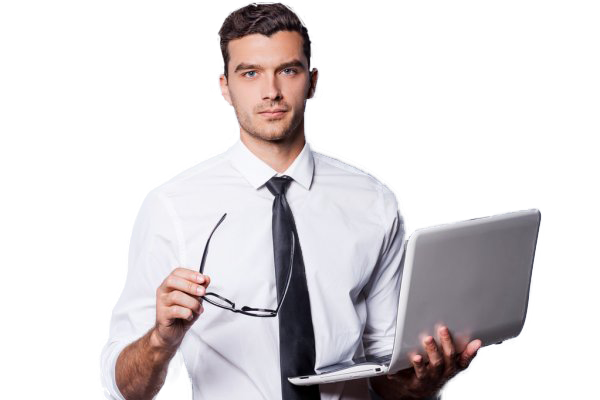
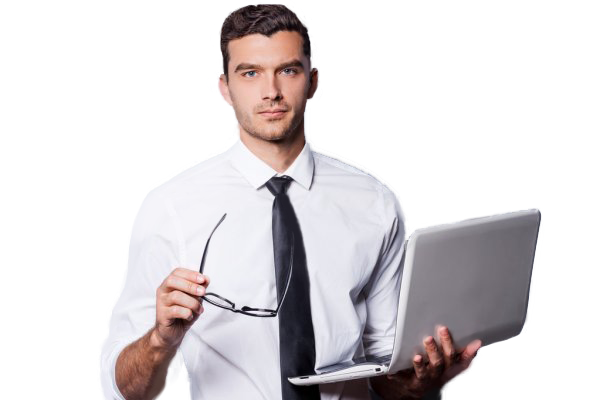
fix some problems (pictures, and some forgots and others details)

diff --git a/css/style.css b/css/style.css
@@ -53,7 +53,7 @@ header section.header .content_section .btn_call_to_action_container button:nth-
 
 header section.header .image_section { grid-column: 3/4; grid-row: 1/6; display: flex; justify-content: center; align-items: flex-end; background-image: url("../Images/header_background.jpg"); background-size: cover; }
 
-header section.header .image_section img { height: 90%; filter: drop-shadow(-2.5px -5px #020a50); }
+header section.header .image_section img { height: 90%; }
 
 section.services { min-height: 50vh; text-align: center; position: relative; padding: 1em 0; background-color: #fef7ff; }
 
@@ -171,7 +171,7 @@ section.pricing div.pricing_cards_container .card_1 { border: 1px solid black; }
 
 section.pricing div.pricing_cards_container .card_1 button { background-color: #5402fa; color: white; }
 
-section.pricing div.pricing_cards_container .card_1 table tr:nth-of-type(3), section.pricing div.pricing_cards_container .card_1 table tr:nth-of-type(4) { opacity: .15 !important; }
+section.pricing div.pricing_cards_container .card_1 table tr:nth-of-type(3), section.pricing div.pricing_cards_container .card_1 table tr:nth-of-type(4) { opacity: .33 !important; }
 
 section.pricing div.pricing_cards_container .card_2 { background-color: #6a1dff; }
 
@@ -183,7 +183,9 @@ section.pricing div.pricing_cards_container .card_2 button { color: #6a1dff; }
 
 section.pricing div.pricing_cards_container .card_2 table tr td { border-bottom: 1px solid white !important; }
 
-section.pricing div.pricing_cards_container .card_2 table tr:nth-of-type(4) { opacity: .15; }
+section.pricing div.pricing_cards_container .card_2 table tr td i { color: white !important; }
+
+section.pricing div.pricing_cards_container .card_2 table tr:nth-of-type(4) { opacity: .33; }
 
 section.pricing div.pricing_cards_container .card_3 { border: 1px solid black; }
 
@@ -205,7 +207,9 @@ section.pricing div.pricing_cards_container .pricing_cards h1 span sup { font-si
 
 section.pricing div.pricing_cards_container .pricing_cards > p { font-weight: 600; text-transform: capitalize; margin: 1em 0; }
 
-section.pricing div.pricing_cards_container .pricing_cards button { width: 100%; border-radius: 50px; border: none; padding: 0.4em; font-size: 1.2em; }
+section.pricing div.pricing_cards_container .pricing_cards button { width: 100%; border-radius: 50px; border: none; padding: 0.4em; font-size: 1.2em; transition: all .25s linear; }
+
+section.pricing div.pricing_cards_container .pricing_cards button:hover { transform: scale(0.95); cursor: pointer; }
 
 section.pricing div.pricing_cards_container .pricing_cards table { width: 85%; }
 

diff --git a/scss/style.scss b/scss/style.scss
@@ -162,7 +162,6 @@ header {
 
             img {
                 height: 90%;
-                filter: drop-shadow(-2.5px -5px rgb(2, 10, 80));
             }
         }
     }
@@ -593,7 +592,7 @@ section.pricing {
 
             table tr:nth-of-type(3),
             table tr:nth-of-type(4) {
-                opacity: .15 !important;
+                opacity: .33 !important;
             }
         }
 
@@ -615,10 +614,15 @@ section.pricing {
 
             table tr td {
                 border-bottom: 1px solid white !important;
+
+                i{
+                    // to make check icons visible because originally it herits from general styles of cards (that is purple)
+                    color: white !important;
+                }
             }
 
             table tr:nth-of-type(4) {
-                opacity: .15;
+                opacity: .33;
             }
 
         }
@@ -697,6 +701,12 @@ section.pricing {
                 border: none;
                 padding: $p1 / 2.5;
                 font-size: $font_lg / 2.5;
+                transition: all .25s linear;
+
+                &:hover{
+                    transform: scale(0.95);
+                    cursor: pointer;
+                }
             }
 
             table {
